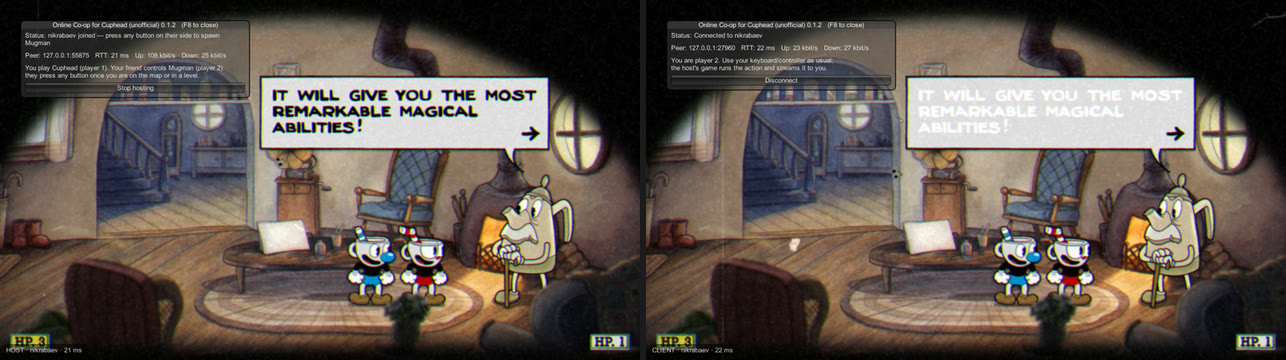
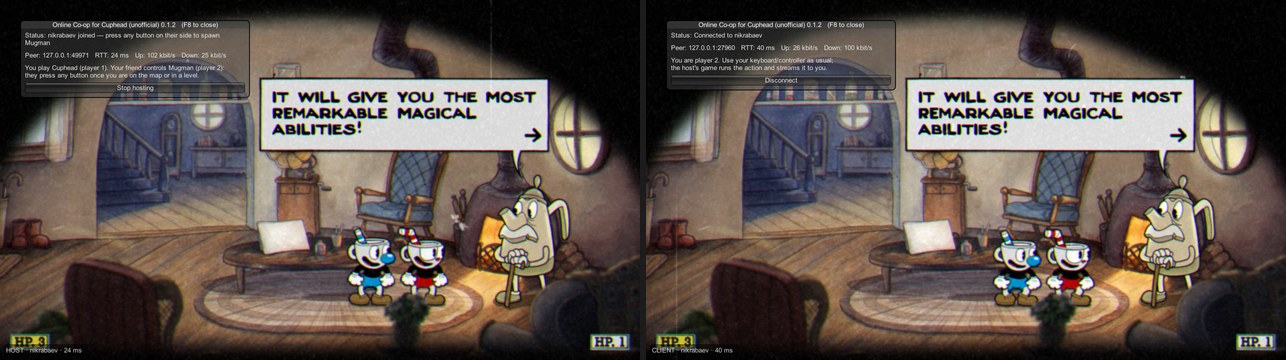
Fix F8 menu cursor and mirrored speech bubble text
- F8 menu: Cuphead hides the OS cursor every frame in fullscreen
  (Cuphead.Update sets Cursor.visible = !Screen.fullScreen). Route that
  assignment through the overlay so the cursor stays visible while the
  menu is open, with a LateUpdate fallback if the patch does not match.
- Speech bubbles drew white text on the guest: TMP_Text.color hides
  Graphic.color, so the host read and the guest wrote the unused white
  Graphic colour instead of the bubble's black text colour.
- TextMesh Pro font materials (presets) are now mirrored; they live in
  fontSharedMaterial, not Graphic.material.
- Line breaks: bubbles are sized to fit their text exactly, so a pixel of
  layout difference made the guest wrap differently and overflow. The host
  now sends its own line breaks and the guest draws without wrapping.
- README: new F8 menu screenshot showing the fixed bubble on both sides.
- Debug: TMP colour/font/material in scene dumps; cursor state in 'state'.

diff --git a/src/Sync/HostSync.cs b/src/Sync/HostSync.cs
@@ -146,6 +146,7 @@ namespace CupheadOnline.Sync
             foreach (Tracked<SpriteState> t in renderers.Values) t.Visible = false;
             foreach (Tracked<UiState> t in graphics.Values) t.Visible = false;
             cameraIds.Clear();
+            tmpBreaks.Clear();
             NetWriter w = new NetWriter(96);
             w.U16(sceneSerial);
             w.Str(name);
@@ -517,7 +518,7 @@ namespace CupheadOnline.Sync
             {
                 if (string.IsNullOrEmpty(tmp.text)) return false;
                 st.Kind = UiState.KindTmp;
-                st.Text = tmp.text;
+                st.Text = TmpTextWithLineBreaks(tmp);
                 st.Font = Fonts.IdOf(tmp.font);
                 st.FontSize = tmp.fontSize; // converted to screen space below
                 st.Alignment = (byte)Mathf.Clamp(TmpAlignToIndex((int)tmp.alignment), 0, 255);
@@ -534,12 +535,22 @@ namespace CupheadOnline.Sync
                 return false;
             }
 
-            Color c = g.color;
+            // TMP_Text.color hides Graphic.color (it is 'new', not an override): read the colour the text is drawn with.
+            Color c = tmp != null ? tmp.color : g.color;
             // CanvasGroup alpha and CanvasRenderer alpha (CrossFadeAlpha, used for weapon icons and prompts).
             c.a *= GroupAlpha(g.transform) * g.canvasRenderer.GetAlpha();
             if (c.a <= 0.002f) return false;
             st.Color = c;
-            st.Material = g.material != null && g.material != Graphic.defaultGraphicMaterial ? MaterialSync.HostId(g.material) : 0;
+            if (tmp != null)
+            {
+                // TextMesh Pro keeps its own material (a font preset, e.g. the speech bubbles' black face) outside
+                // Graphic.material, which always reports the default UI material for it.
+                st.Material = tmp.fontSharedMaterial != null ? MaterialSync.HostId(tmp.fontSharedMaterial) : 0;
+            }
+            else
+            {
+                st.Material = g.material != null && g.material != Graphic.defaultGraphicMaterial ? MaterialSync.HostId(g.material) : 0;
+            }
 
             g.rectTransform.GetWorldCorners(corners);
             for (int i = 0; i < 4; i++)
@@ -637,6 +648,82 @@ namespace CupheadOnline.Sync
             if (mask != null && mask.MaskEnabled()) return true;
             RectMask2D rect = t.GetComponent<RectMask2D>();
             return rect != null && rect.IsActive();
+        }
+
+        private sealed class TmpBreaks
+        {
+            public string Source;
+            public int Signature;
+            public string Result;
+        }
+
+        private static readonly Dictionary<int, TmpBreaks> tmpBreaks = new Dictionary<int, TmpBreaks>();
+        private static readonly List<int> breakAt = new List<int>();
+        private static int[] bufferToText = new int[256];
+
+        /// <summary>
+        /// The text with a newline wherever the host's TMP wrapped it. The client draws with wrapping off, so its lines
+        /// match even when its layout differs by a pixel (speech bubbles are sized to fit their text exactly).
+        /// </summary>
+        private static string TmpTextWithLineBreaks(TMPro.TextMeshProUGUI tmp)
+        {
+            string text = tmp.text;
+            TMPro.TMP_TextInfo info = tmp.textInfo;
+            if (!tmp.enableWordWrapping || info == null || info.lineCount < 2 || info.characterInfo == null || info.lineInfo == null) return text;
+            int lines = Mathf.Min(info.lineCount, info.lineInfo.Length);
+            breakAt.Clear();
+            int signature = lines;
+            for (int l = 1; l < lines; l++)
+            {
+                int first = info.lineInfo[l].firstCharacterIndex;
+                if (first <= 0 || first >= info.characterCount || first >= info.characterInfo.Length) continue;
+                char previous = info.characterInfo[first - 1].character;
+                if (previous == '\n' || previous == '\r' || previous == '\u2028' || previous == '\u2029') continue; // break already in the text
+                breakAt.Add(info.characterInfo[first].index);
+                signature = signature * 31 + info.characterInfo[first].index;
+            }
+            if (breakAt.Count == 0) return text;
+
+            TmpBreaks cached;
+            int key = tmp.GetInstanceID();
+            if (tmpBreaks.TryGetValue(key, out cached) && ReferenceEquals(cached.Source, text) && cached.Signature == signature) return cached.Result;
+
+            // characterInfo.index points into TMP's parsed char buffer, which folds escapes and surrogate pairs; map it back.
+            if (bufferToText.Length <= text.Length) bufferToText = new int[text.Length + 64];
+            int n = 0;
+            bool ctrl = tmp.parseCtrlCharacters;
+            for (int i = 0; i < text.Length; i++)
+            {
+                bufferToText[n] = i;
+                if (ctrl && text[i] == '\\' && i + 1 < text.Length)
+                {
+                    char c = text[i + 1];
+                    if (c == 'U' && text.Length > i + 9) { i += 9; n++; continue; }
+                    if (c == '\\' && text.Length > i + 2) { bufferToText[n + 1] = i + 2; i += 2; n += 2; continue; }
+                    if (c == 'n' || c == 'r' || c == 't') { i++; n++; continue; }
+                    if (c == 'u' && text.Length > i + 5) { i += 5; n++; continue; }
+                }
+                if (char.IsHighSurrogate(text[i]) && i + 1 < text.Length && char.IsLowSurrogate(text[i + 1])) i++;
+                n++;
+            }
+
+            System.Text.StringBuilder sb = new System.Text.StringBuilder(text.Length + breakAt.Count);
+            int copied = 0;
+            for (int b = 0; b < breakAt.Count; b++)
+            {
+                int bufferIndex = breakAt[b];
+                if (bufferIndex < 0 || bufferIndex >= n) continue;
+                int at = bufferToText[bufferIndex];
+                if (at < copied) continue;
+                sb.Append(text, copied, at - copied).Append('\n');
+                copied = at;
+            }
+            sb.Append(text, copied, text.Length - copied);
+            if (cached == null) tmpBreaks[key] = cached = new TmpBreaks();
+            cached.Source = text;
+            cached.Signature = signature;
+            cached.Result = sb.ToString();
+            return cached.Result;
         }
 
         /// <summary>TextAlignmentOptions are bit flags; map to a compact 0..N index understood by both sides.</summary>

diff --git a/src/UI/Overlay.cs b/src/UI/Overlay.cs
@@ -1,6 +1,8 @@
 using System;
 using System.Collections.Generic;
+using System.Reflection;
 using CupheadOnline.Net;
+using HarmonyLib;
 using UnityEngine;
 
 namespace CupheadOnline.UI
@@ -8,7 +10,7 @@ namespace CupheadOnline.UI
     /// <summary>IMGUI menu (F8). Uses UnityEngine.Input/IMGUI, so it keeps working while Rewired input is blocked.</summary>
     public static class Overlay
     {
-        public static bool Visible = true;
+        public static bool Visible;
         private static Rect window = new Rect(40, 40, 460, 10);
         private static string address;
         private static string steamId;
@@ -21,6 +23,21 @@ namespace CupheadOnline.UI
         private static float lastRateSample;
         private static float upKbps, downKbps;
 
+        /// <summary>
+        /// Cuphead.Update hides the OS cursor every frame in fullscreen (Cursor.visible = !Screen.fullScreen).
+        /// CursorPatch routes that assignment here so the cursor stays visible while the menu is open.
+        /// </summary>
+        public static void SetGameCursorVisible(bool visible)
+        {
+            Cursor.visible = visible || Visible;
+        }
+
+        /// <summary>Fallback for game builds the patch does not match: re-show the cursor after the game hid it.</summary>
+        public static void UpdateCursor()
+        {
+            if (Visible && !Cursor.visible) Cursor.visible = true;
+        }
+
         public static void Draw()
         {
             if (address == null)
@@ -28,7 +45,6 @@ namespace CupheadOnline.UI
                 address = Plugin.LastAddress.Value;
                 steamId = Plugin.LastSteamId.Value;
                 portText = Plugin.Port.Value.ToString();
-                Visible = false;
             }
             SampleRates();
             DrawBadge();
@@ -221,6 +237,21 @@ namespace CupheadOnline.UI
             {
                 error = ex.Message;
                 Plugin.Log.LogError(ex);
+            }
+        }
+    }
+
+    [HarmonyPatch(typeof(Cuphead), "Update")]
+    internal static class CursorPatch
+    {
+        private static IEnumerable<CodeInstruction> Transpiler(IEnumerable<CodeInstruction> instructions)
+        {
+            MethodInfo setVisible = AccessTools.PropertySetter(typeof(Cursor), "visible");
+            MethodInfo replacement = AccessTools.Method(typeof(Overlay), "SetGameCursorVisible");
+            foreach (CodeInstruction ci in instructions)
+            {
+                if (ci.Calls(setVisible)) ci.operand = replacement;
+                yield return ci;
             }
         }
     }

diff --git a/src/Sync/ClientMirror.cs b/src/Sync/ClientMirror.cs
@@ -804,7 +804,7 @@ namespace CupheadOnline.Sync
                     case UiState.KindTmp:
                         TMPro.TextMeshProUGUI tmp = g.Go.AddComponent<TMPro.TextMeshProUGUI>();
                         tmp.raycastTarget = false;
-                        tmp.enableWordWrapping = true;
+                        tmp.enableWordWrapping = false; // the host sends its line breaks in the text
                         g.G = tmp;
                         break;
                     default:
@@ -835,8 +835,19 @@ namespace CupheadOnline.Sync
                     m = null;
                     color = new Color(Mathf.Clamp01(color.r * 2f), Mathf.Clamp01(color.g * 2f), Mathf.Clamp01(color.b * 2f), color.a);
                 }
-                g.G.material = m;
-                g.G.color = color;
+                TMPro.TextMeshProUGUI tmp = g.G as TMPro.TextMeshProUGUI;
+                if (tmp != null)
+                {
+                    // Without the host's preset (or with an unresolved one lacking the font atlas) use the font's own.
+                    if (m == null || m.mainTexture == null) m = tmp.font != null ? tmp.font.material : null;
+                    if (m != null) tmp.fontSharedMaterial = m;
+                    tmp.color = color; // TMP_Text.color hides Graphic.color
+                }
+                else
+                {
+                    g.G.material = m;
+                    g.G.color = color;
+                }
             }
             Image image = g.G as Image;
             if (image != null)

diff --git a/src/Sync/DebugDump.cs b/src/Sync/DebugDump.cs
@@ -49,6 +49,14 @@ namespace CupheadOnline.Sync
                         g.GetType().Name, Path(g.transform), g.enabled, img != null && img.sprite != null ? img.sprite.name : "-", img != null && img.overrideSprite != null ? img.overrideSprite.name : "-",
                         g.material != null ? g.material.name + "/" + (g.material.shader != null ? g.material.shader.name : "") : "-", g.color, c[0], c[2], g.canvasRenderer.cull,
                         tex != null ? tex.name + " " + tex.width + "x" + tex.height : "null", img != null && img.overrideSprite != null ? img.overrideSprite.packed.ToString() : "-"));
+                    TMPro.TextMeshProUGUI tmp = g as TMPro.TextMeshProUGUI;
+                    if (tmp != null)
+                    {
+                        // TMP_Text.color hides Graphic.color, and its font material is not Graphic.material.
+                        Material fm = tmp.fontSharedMaterial;
+                        sb.AppendLine(string.Format("    TMP color={0} font={1} fontMat={2} face={3} wrap={4} lines={5}",
+                            tmp.color, tmp.font != null ? tmp.font.name : "-", fm != null ? fm.name : "-", tmp.faceColor, tmp.enableWordWrapping, tmp.textInfo != null ? tmp.textInfo.lineCount : 0));
+                    }
                 }
             }
             Plugin.Log.LogInfo(sb.ToString());

diff --git a/src/Sync/TestDriver.cs b/src/Sync/TestDriver.cs
@@ -335,7 +335,8 @@ namespace CupheadOnline.Sync
 
         private static string State()
         {
-            string s = "scene=" + SceneManager.GetActiveScene().name + " loading=" + SceneLoader.CurrentlyLoading + " paused=" + PauseManager.state;
+            string s = "scene=" + SceneManager.GetActiveScene().name + " loading=" + SceneLoader.CurrentlyLoading + " paused=" + PauseManager.state +
+                " menu=" + CupheadOnline.UI.Overlay.Visible + " cursor=" + Cursor.visible + "/" + Cursor.lockState;
             if (Session.Role == Role.Client) return s + " " + ClientMirror.Summary();
             s += " multiplayer=" + PlayerManager.Multiplayer;
             for (int i = 0; i < 2; i++)

diff --git a/src/Plugin.cs b/src/Plugin.cs
@@ -151,6 +151,11 @@ namespace CupheadOnline
             }
         }
 
+        private void LateUpdate()
+        {
+            Overlay.UpdateCursor();
+        }
+
         private void OnGUI()
         {
             Overlay.Draw();
